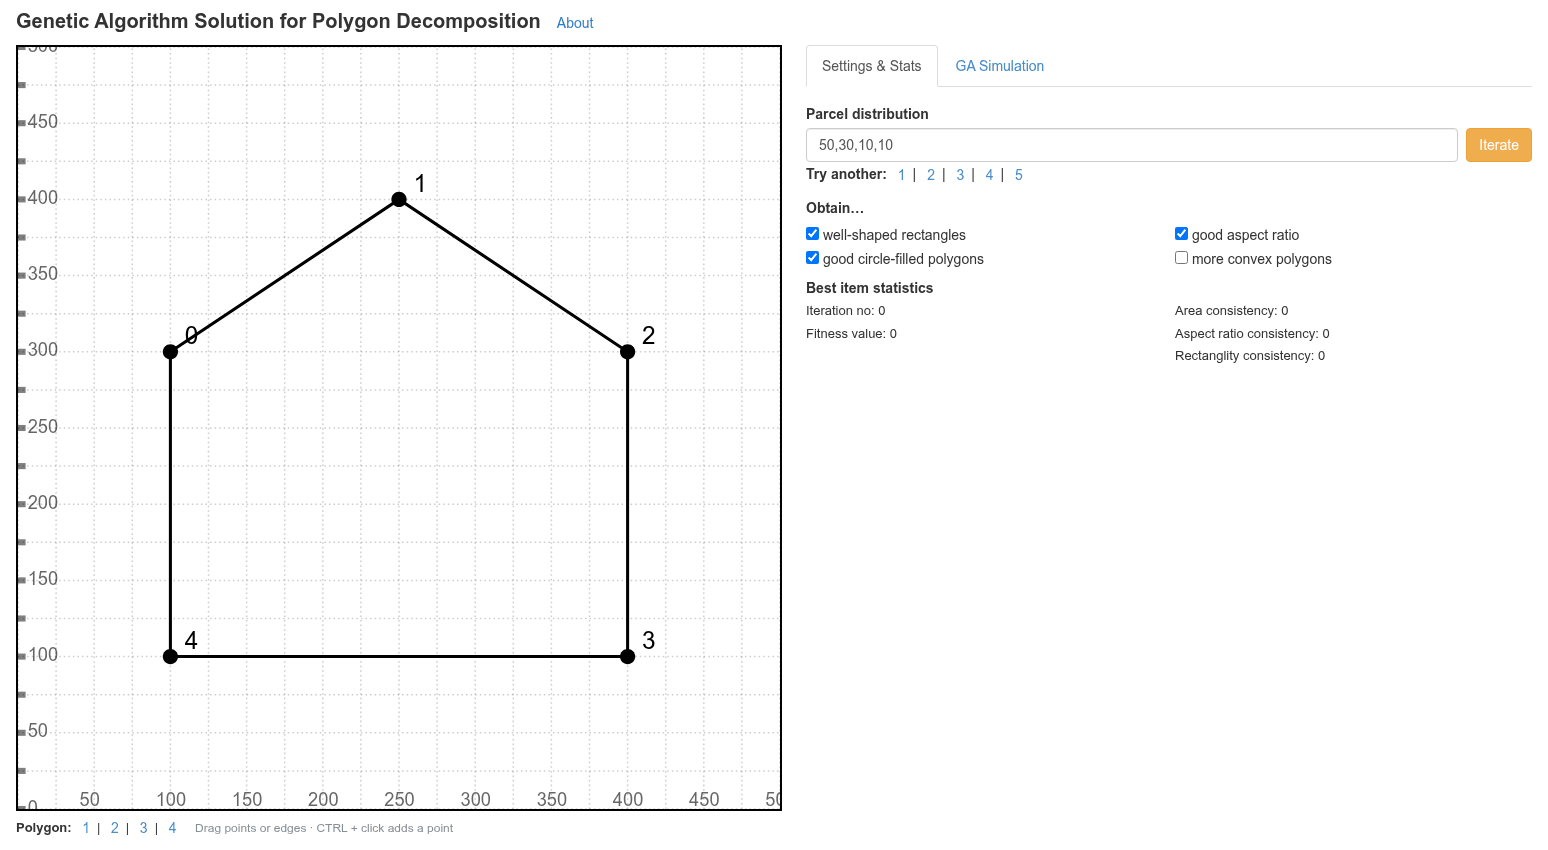
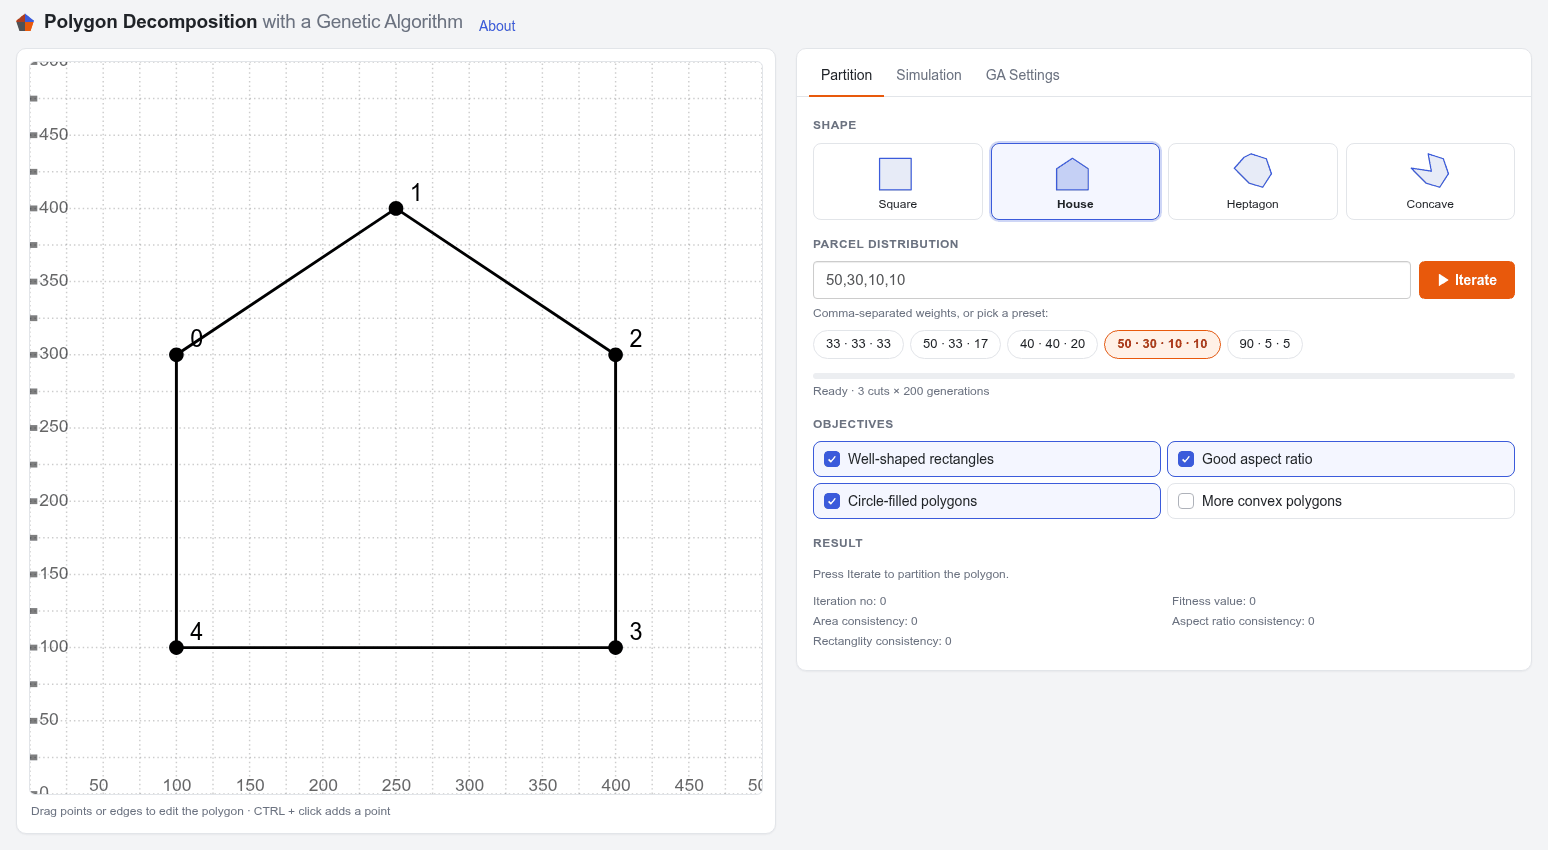
Add four shapes: L-shape, trapezoid, triangle and cross
- The shape picker now offers eight shapes. Each thumbnail's view box is
  computed from the shape's bounds so every shape fits its card.
- Part labels are slightly smaller so they fit narrow parts.
- README: list the shapes and refresh the live-site screenshots with the
  redesigned page.

Claude-Session: https://claude.ai/code/session_01GDn6v5hYgDPU3bx6nbU9jo

diff --git a/js/partitioning.js b/js/partitioning.js
@@ -76,8 +76,19 @@ var SHAPES = [
     {name: 'Square',   points: [[100,100],[400,100],[400,400],[100,400]]},
     {name: 'House',    points: [[100,200],[250,100],[400,200],[400,400],[100,400]]},
     {name: 'Heptagon', points: [[401.5,104],[450.5,246],[367.5,375],[236.5,335],[97.5,194],[190.5,90],[257.5,57]]},
-    {name: 'Concave',  points: [[401.5,104],[450.5,246],[367.5,375],[236.5,335],[97.5,194],[287.5,222],[257.5,57]]}
+    {name: 'Concave',  points: [[401.5,104],[450.5,246],[367.5,375],[236.5,335],[97.5,194],[287.5,222],[257.5,57]]},
+    {name: 'L-shape',  points: [[100,100],[260,100],[260,260],[420,260],[420,420],[100,420]]},
+    {name: 'Trapezoid', points: [[170,120],[340,120],[440,400],[70,400]]},
+    {name: 'Triangle', points: [[250,80],[440,410],[60,410]]},
+    {name: 'Cross',    points: [[190,90],[310,90],[310,190],[410,190],[410,310],[310,310],[310,410],[190,410],[190,310],[90,310],[90,190],[190,190]]}
 ];
+
+function shapeViewBox(points){ // thumbnail view box: the shape's bounds plus a margin, as a square
+    var xs = points.map(function(p){ return p[0]; }), ys = points.map(function(p){ return p[1]; });
+    var minX = Math.min.apply(null, xs), maxX = Math.max.apply(null, xs), minY = Math.min.apply(null, ys), maxY = Math.max.apply(null, ys);
+    var size = Math.max(maxX - minX, maxY - minY) * 1.12, cx = (minX + maxX) / 2, cy = (minY + maxY) / 2;
+    return [cx - size / 2, cy - size / 2, size, size].map(function(v){ return v.toFixed(1); }).join(' ');
+}
 var DIST_PRESETS = ['33,33,33', '50,33,17', '40,40,20', '50,30,10,10', '90,5,5'];
 
 function buildPresetPickers(){
@@ -87,7 +98,7 @@ function buildPresetPickers(){
         for(var i=0; i < SHAPES.length; i++){
             var pts = SHAPES[i].points.map(function(p){ return p[0] + ',' + p[1]; }).join(' ');
             html += '<button type="button" class="shape-btn" data-shape="' + (i + 1) + '" onclick="createInitialPolygon(' + (i + 1) + ')" aria-label="Shape ' + (i + 1) + ': ' + SHAPES[i].name + '">'
-                  + '<svg viewBox="80 40 390 380" aria-hidden="true"><polygon points="' + pts + '"/></svg>'
+                  + '<svg viewBox="' + shapeViewBox(SHAPES[i].points) + '" aria-hidden="true"><polygon points="' + pts + '"/></svg>'
                   + '<span>' + SHAPES[i].name + '</span></button>';
         }
         picker.innerHTML = html;
@@ -1246,7 +1257,7 @@ window.show = function(){
         s.bringToFront();
         // label at the point inside the part that is farthest from its edges, sized to fit there
         var spot = labelSpot(s);
-        var fontSize = Math.max(10, Math.min(44, spot.radius / 1.4));
+        var fontSize = Math.max(9, Math.min(44, spot.radius / 1.8)); // "50.0%" is about 2.7 font sizes wide
         drawables.push(new PointText({ point: spot.point + [0, fontSize / 3], justification: 'center', fontSize: fontSize + 'px', fontWeight: 'bold',
                                        fillColor: 'white', strokeColor: 'rgba(0,0,0,0.35)', strokeWidth: 0.6, content: pct.toFixed(1) + '%'}));
         parts.push({color: color, pct: pct});

diff --git a/README.md b/README.md
@@ -9,7 +9,7 @@ You can [visit this page](https://mehmetakifakkus.github.io/partitioning/)
 
 Taken from the live site: on a desktop (1548 × 850) and on a phone (360 px wide).
 
-<img src="images/live-desktop.png" alt="Live site on a desktop: the polygon canvas fills the window height, with the Settings & Stats and GA Simulation tabs on the right" width="640"/> <img src="images/live-phone.png" alt="Live site on a phone: the canvas fits the screen width and the tabs are below it" width="180"/>
+<img src="images/live-desktop.png" alt="Live site on a desktop: the polygon canvas fills the window height, with the Partition, Simulation and GA Settings tabs on the right" width="640"/> <img src="images/live-phone.png" alt="Live site on a phone: the canvas fits the screen width and the tabs are below it" width="180"/>
 
 
 ## Overview
@@ -23,7 +23,7 @@ The project is a static web page: there is no build step, package manager or ser
 The page has the polygon canvas on the left and a panel with three tabs on the right: **Partition**, **Simulation** and **GA Settings**. The canvas scales to fill the window (it keeps its 500 × 500 coordinate system); on phones and narrow windows the panel moves below it, and the polygon can be edited by touch.
 
 ### Partition
-- **Shape:** pick one of the four shapes shown as thumbnails (Square, House, Heptagon, Concave). The selected one is highlighted.
+- **Shape:** pick one of the eight shapes shown as thumbnails (Square, House, Heptagon, Concave, L-shape, Trapezoid, Triangle, Cross). The selected one is highlighted. Shapes are defined in the `SHAPES` list in `js/partitioning.js`.
 - **Edit the polygon:** drag vertices or edges on the canvas; hold `CTRL` and click to add a new vertex.
 - **Parcel distribution:** enter comma-separated weights (they are normalized automatically), or click a preset chip such as `50 · 30 · 10 · 10`.
 - **Iterate:** runs the algorithm. A progress bar shows the current cut and generation. Keyboard: `0` runs it, `1`–`9` re-runs a single cut (ignored while typing in a text field).
